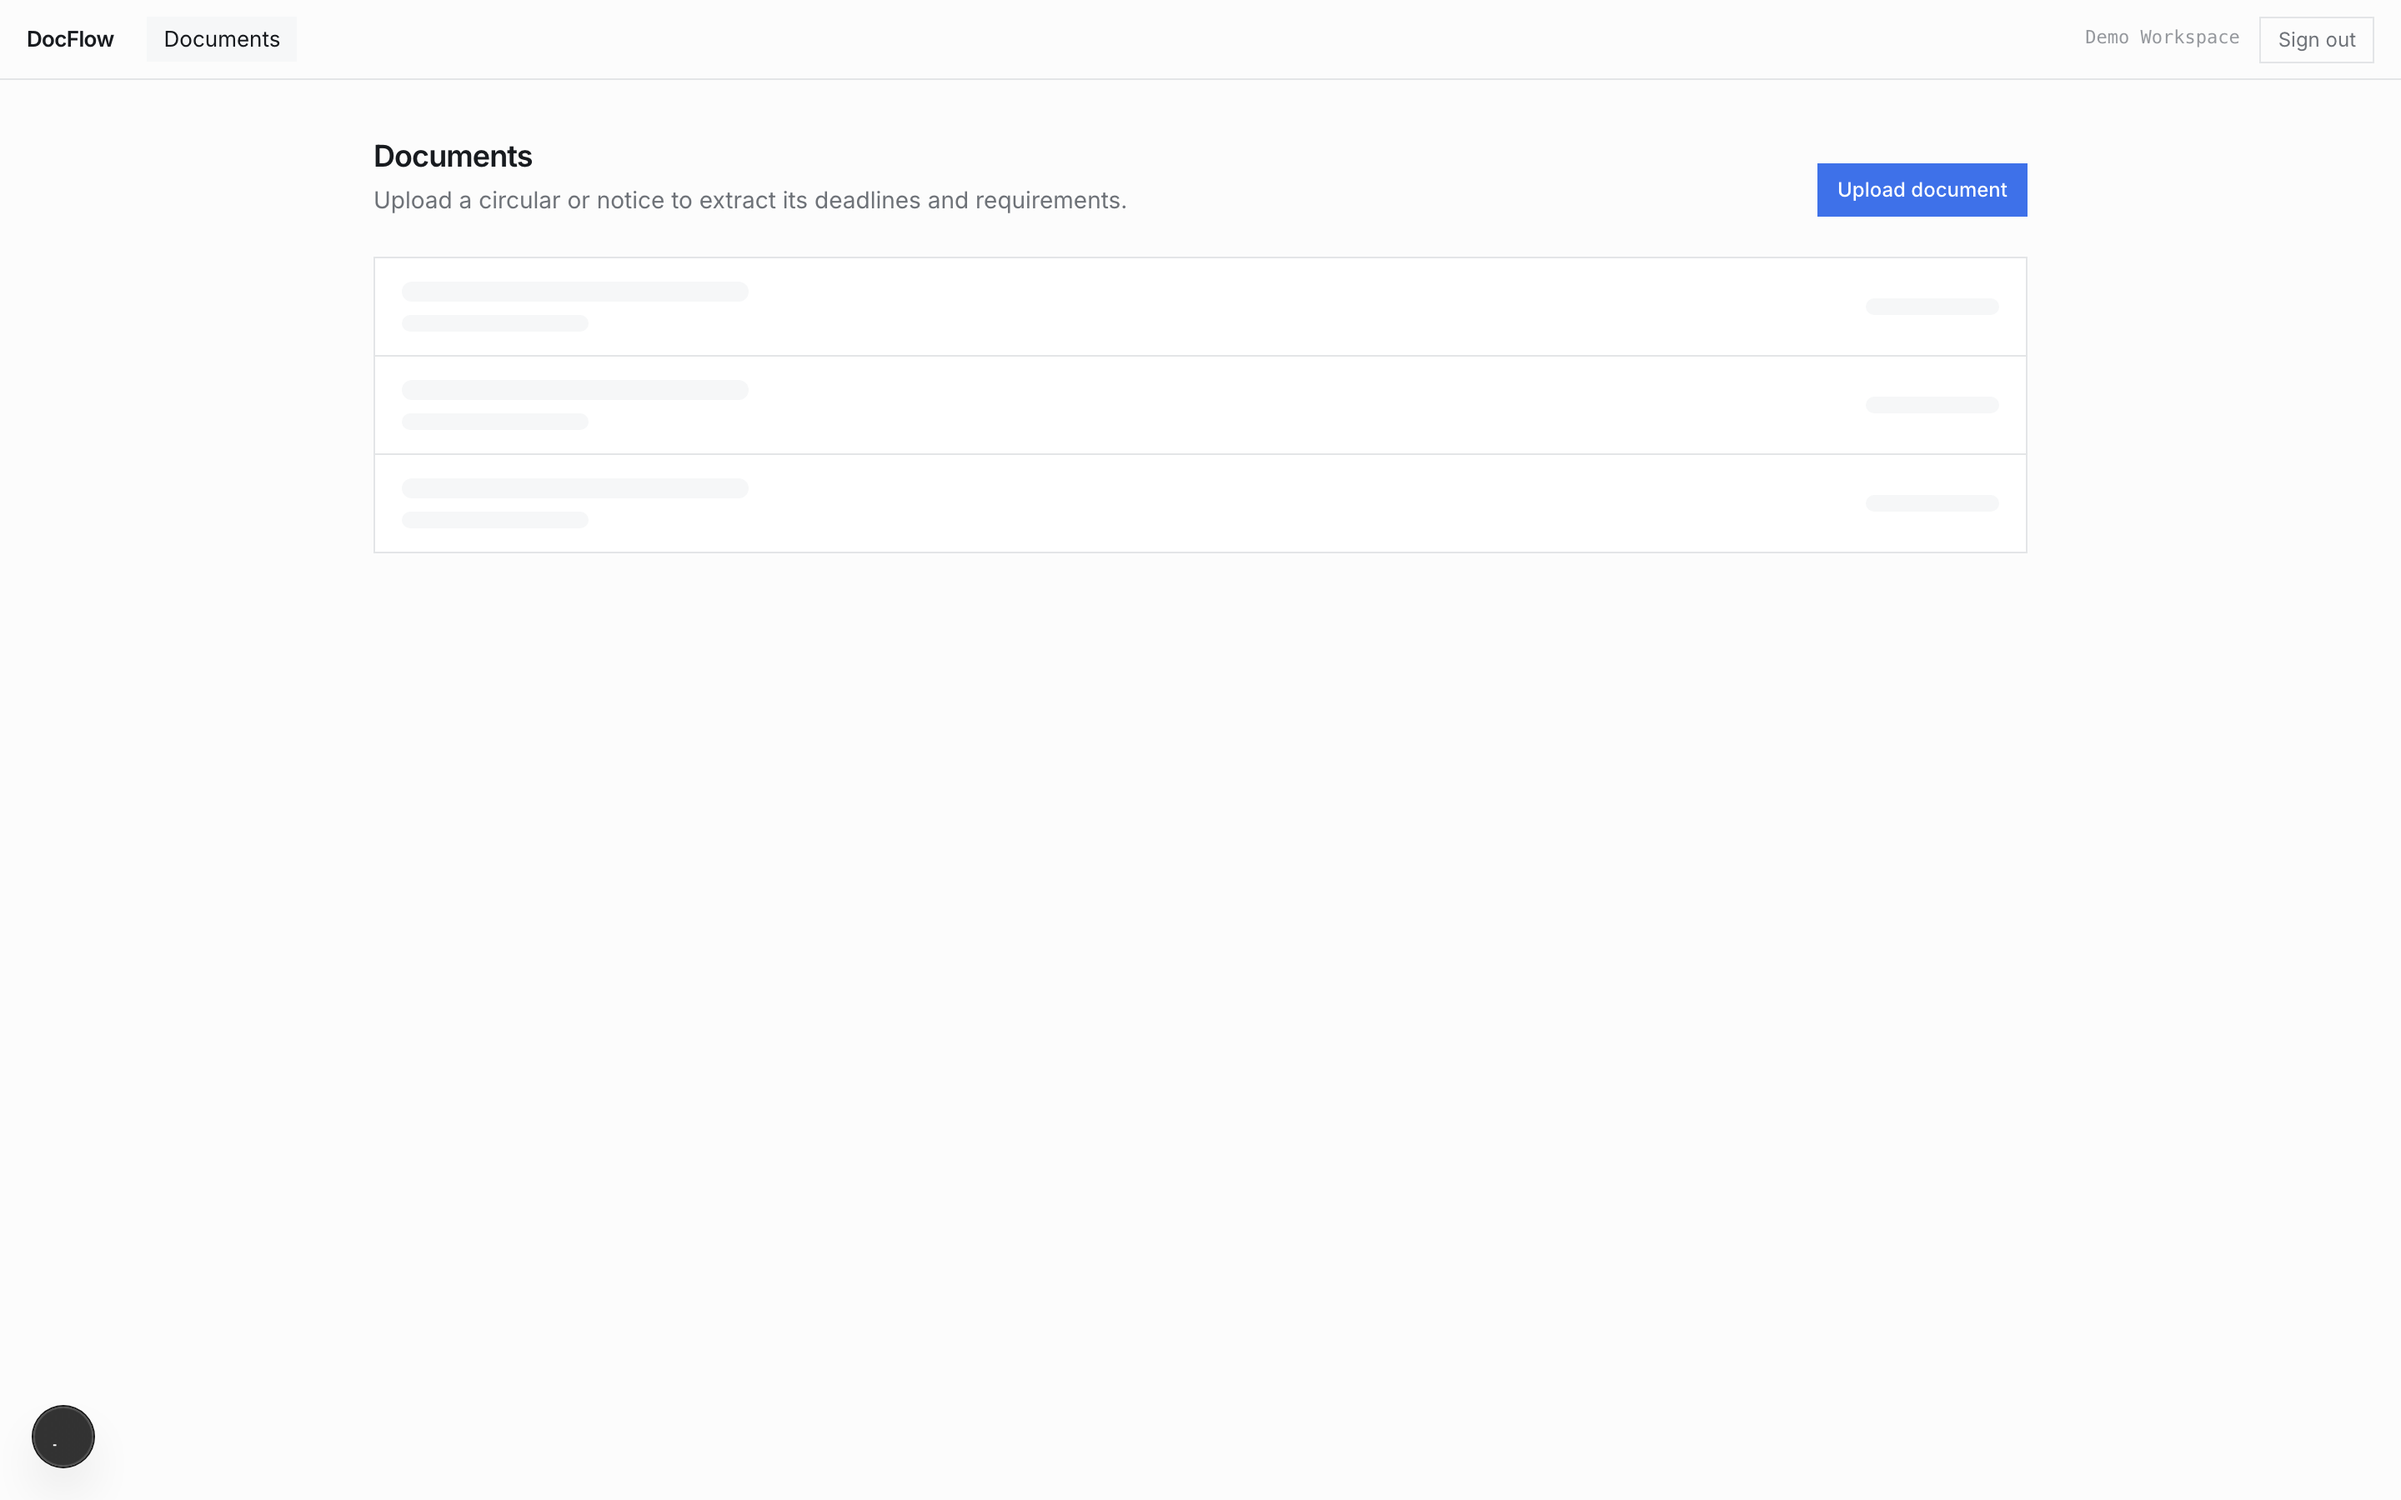
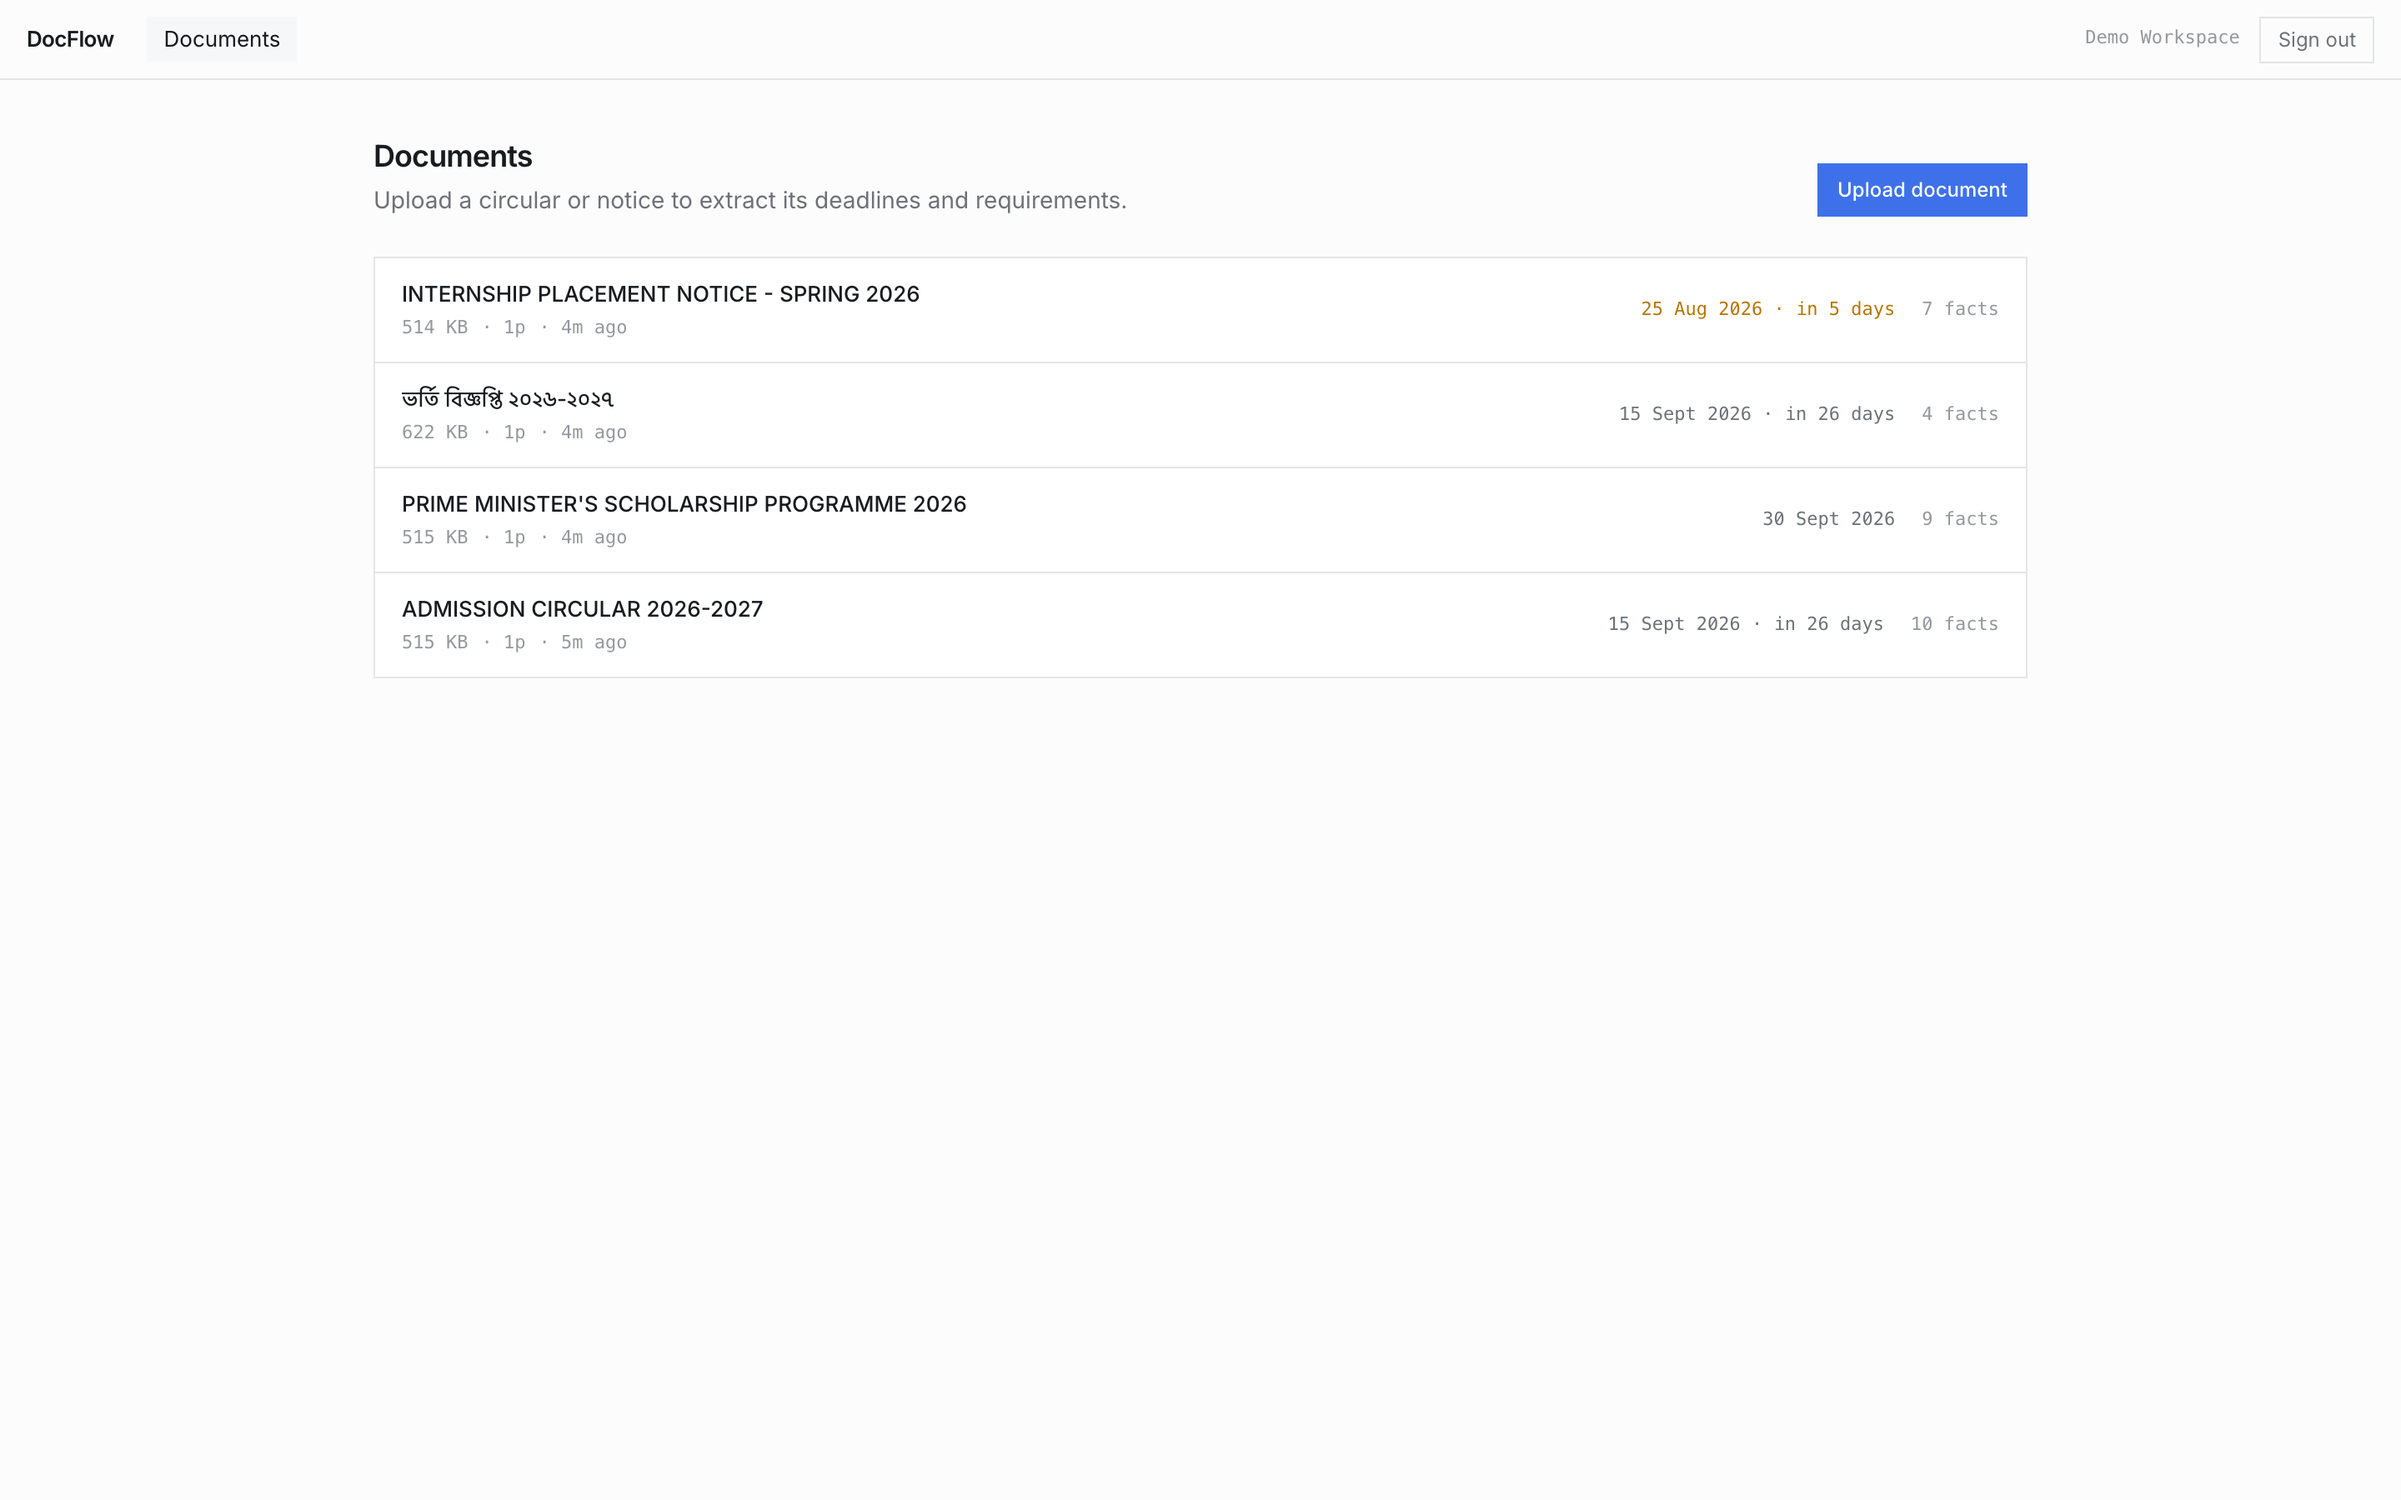
docs: production screenshots and final live state
Deployed and verified free: Vercel (web) + Render (API, Docker) + Neon
(Postgres 17 + pgvector, Singapore). No object storage and no Redis - both
removed behind config flags rather than paid for.

Verified in production, not just locally:
- 48/48 tenant-isolation tests against the live Neon database, with tables
  owned by neondb_owner and the app connecting as a separate non-owner role
  so RLS actually applies
- 5/5 Playwright E2E against https://docflow-ai-six.vercel.app
- 4 seeded documents, all at 100% citation verification
- real cost $0.00088/document

The Bangla screenshot is the wedge working end to end on the target language:
its PDF text layer was corrupt, the gate detected script corruption, the page
went to OCR, and the result is a highlighted Bangla deadline showing both the
normalized 15 Sept 2026 and the raw "১৫ সেপ্টেম্বর ২০২৬".

diff --git a/README.md b/README.md
@@ -3,7 +3,7 @@
 > **Turn documents into decisions, deadlines, tasks and actions** — with every fact traceable to the exact line it came from.
 
 [![CI](https://github.com/A-K-M-Asifuzzaman/DocFlow-AI/actions/workflows/ci.yml/badge.svg)](https://github.com/A-K-M-Asifuzzaman/DocFlow-AI/actions/workflows/ci.yml)
-[![tests](https://img.shields.io/badge/tests-331%20passing-2F6B3D)](apps/api/tests)
+[![tests](https://img.shields.io/badge/tests-335%20passing-2F6B3D)](apps/api/tests)
 [![python](https://img.shields.io/badge/python-3.12-24466E)](apps/api/pyproject.toml)
 [![license](https://img.shields.io/badge/license-MIT-4A5568)](LICENSE)
 
@@ -11,6 +11,11 @@
 
 *Click the deadline on the right; the source sentence highlights on the left. The card shows the
 normalized date, how long is left, **and** the raw text the document actually contained.*
+
+The same thing on a **Bangla** circular — which reached the model through OCR, because its PDF text
+layer was corrupt (see [EVALUATION.md](docs/EVALUATION.md) §7):
+
+![A Bangla circular with its deadline highlighted and normalized](docs/images/viewer-bangla.png)
 
 ---
 
@@ -45,8 +50,9 @@ doubles as a hallucination metric that needs no judge model and no labels**.
 
 | | |
 |---|---|
-| App | https://docflow-ai-six.vercel.app |
-| API | https://docflow-api-r6wg.onrender.com/health |
+| App | **https://docflow-ai-six.vercel.app** |
+| API | https://docflow-api-6a2w.onrender.com/health/ready |
+| Demo sign-in | `demo@docflow.ai` / `demo-workspace-2026` (or click **Open the demo**) |
 
 Free tier: the API spins down after ~15 minutes idle, so the first request can
 take 30–50s. Deployment details and the trade-offs behind it:
@@ -105,7 +111,9 @@ Real numbers from real runs. Full methodology and caveats:
 | Tenant isolation | **48/48** | Parameterised over every table carrying `WorkspaceScopedMixin` |
 | Authorization matrix | **99/99** | Every role × permission pair vs. a hand-written expected table |
 | Cross-lingual similarity, identical deadline EN↔BN | **0.297** (control 0.018) | Live `text-embedding-3-small` — **a measured weakness**, see below |
-| Modelled cost, 10-page document | **≈ $0.065** | Asserted in CI against published pricing |
+| **Real** cost per document | **$0.00088** | Live `gpt-4o-mini` extraction, from the usage ledger |
+| Bangla: text layer vs OCR | **69.4 → 97.1** similarity | The text layer is *worse* than OCR for Bengali |
+| RLS on the production database | **48/48** | Isolation suite run against live Neon |
 
 **Two design-document assumptions were measured and found wrong**, and are
 corrected in the docs:
@@ -181,8 +189,9 @@ normalized due dates returned over HTTP.
 | Document pipeline (11 stages) | ✅ resumable, idempotent, integration-tested |
 | Span alignment & citations | ✅ verified against rendered pixels |
 | LLM abstraction + usage ledger | ✅ 3 providers, cost per call recorded |
-| Auth, permissions, API | ✅ 331 backend tests |
-| Frontend + viewer | ✅ 5/5 Playwright E2E in Chromium |
+| Auth, permissions, API | ✅ 335 backend tests |
+| Frontend + viewer | ✅ 5/5 Playwright E2E, run against **production** |
+| Deployment | ✅ live and free — Vercel + Render + Neon |
 | Grounded chat / hybrid retrieval | 🚧 chunks + embeddings land; query path next |
 | Labeled eval dataset | ⬜ the blocking gap — see [EVALUATION.md](docs/EVALUATION.md) §6 |
 
